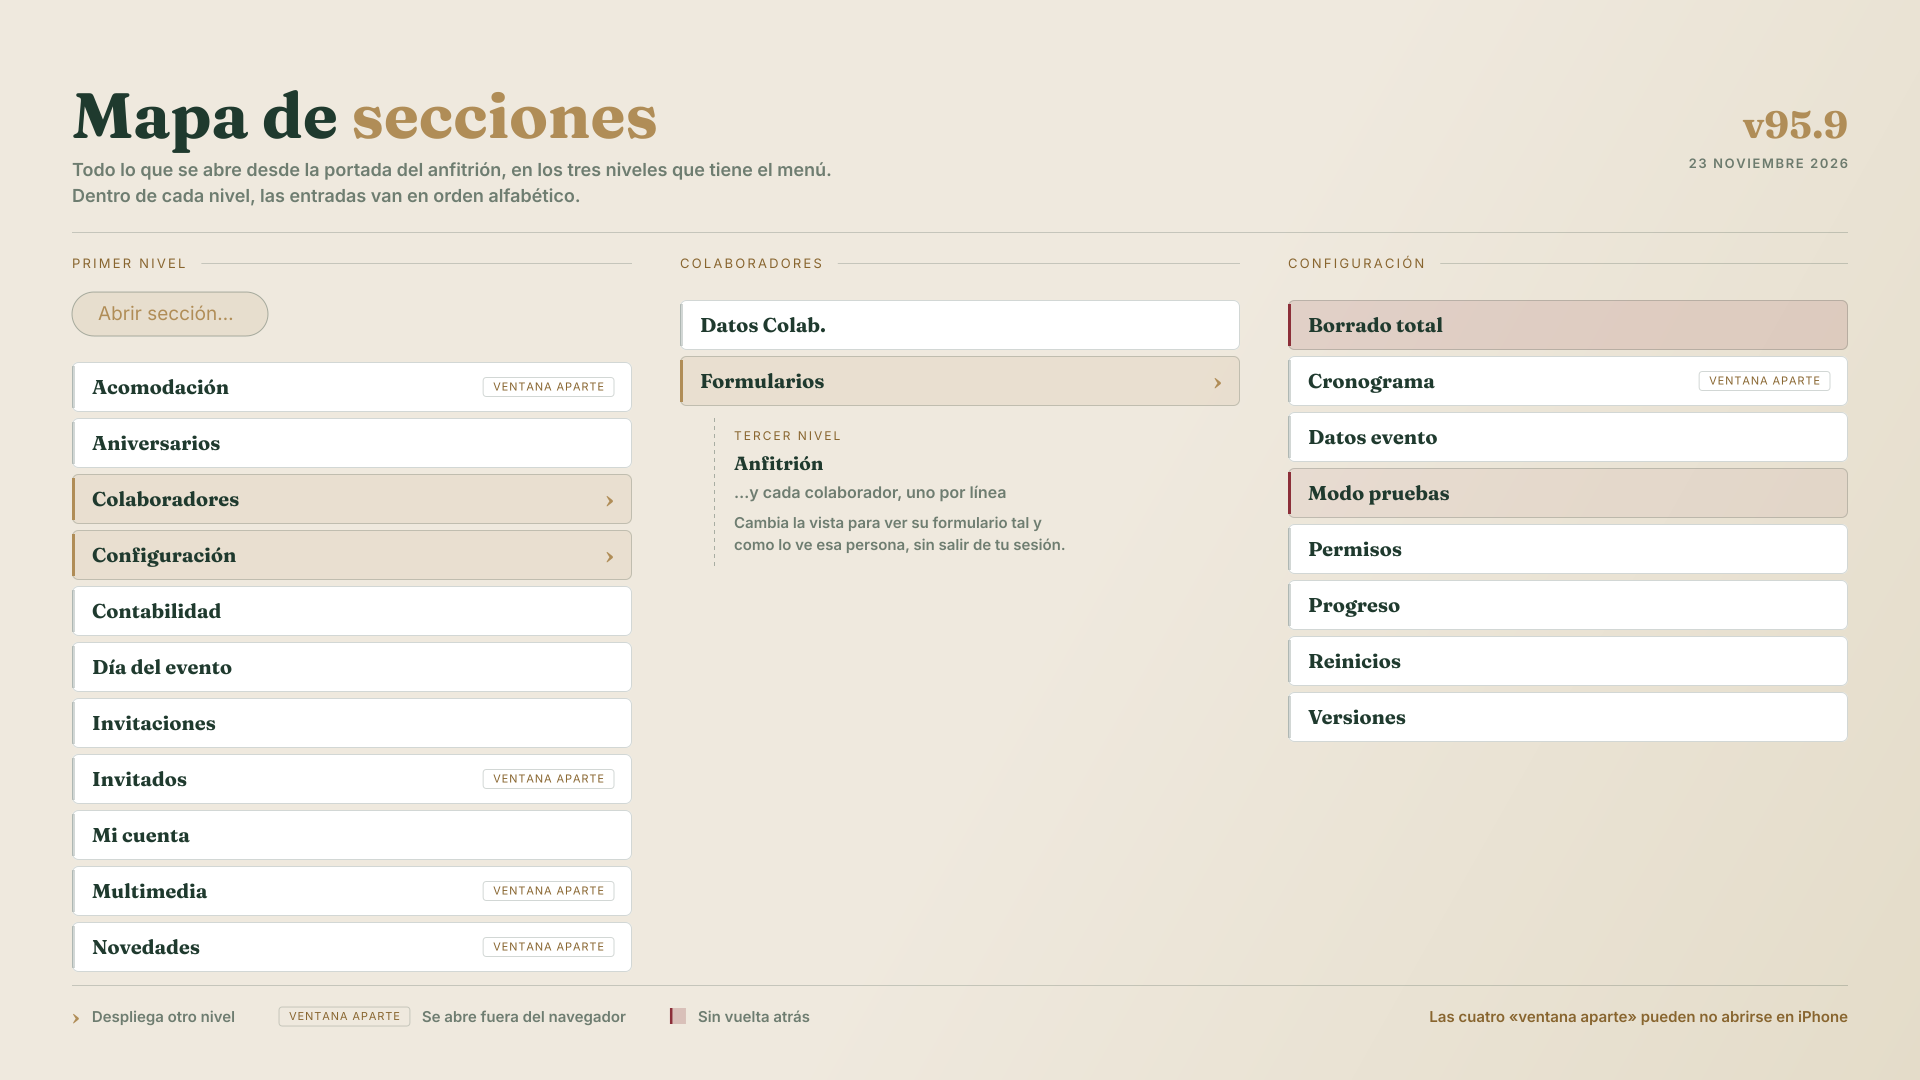
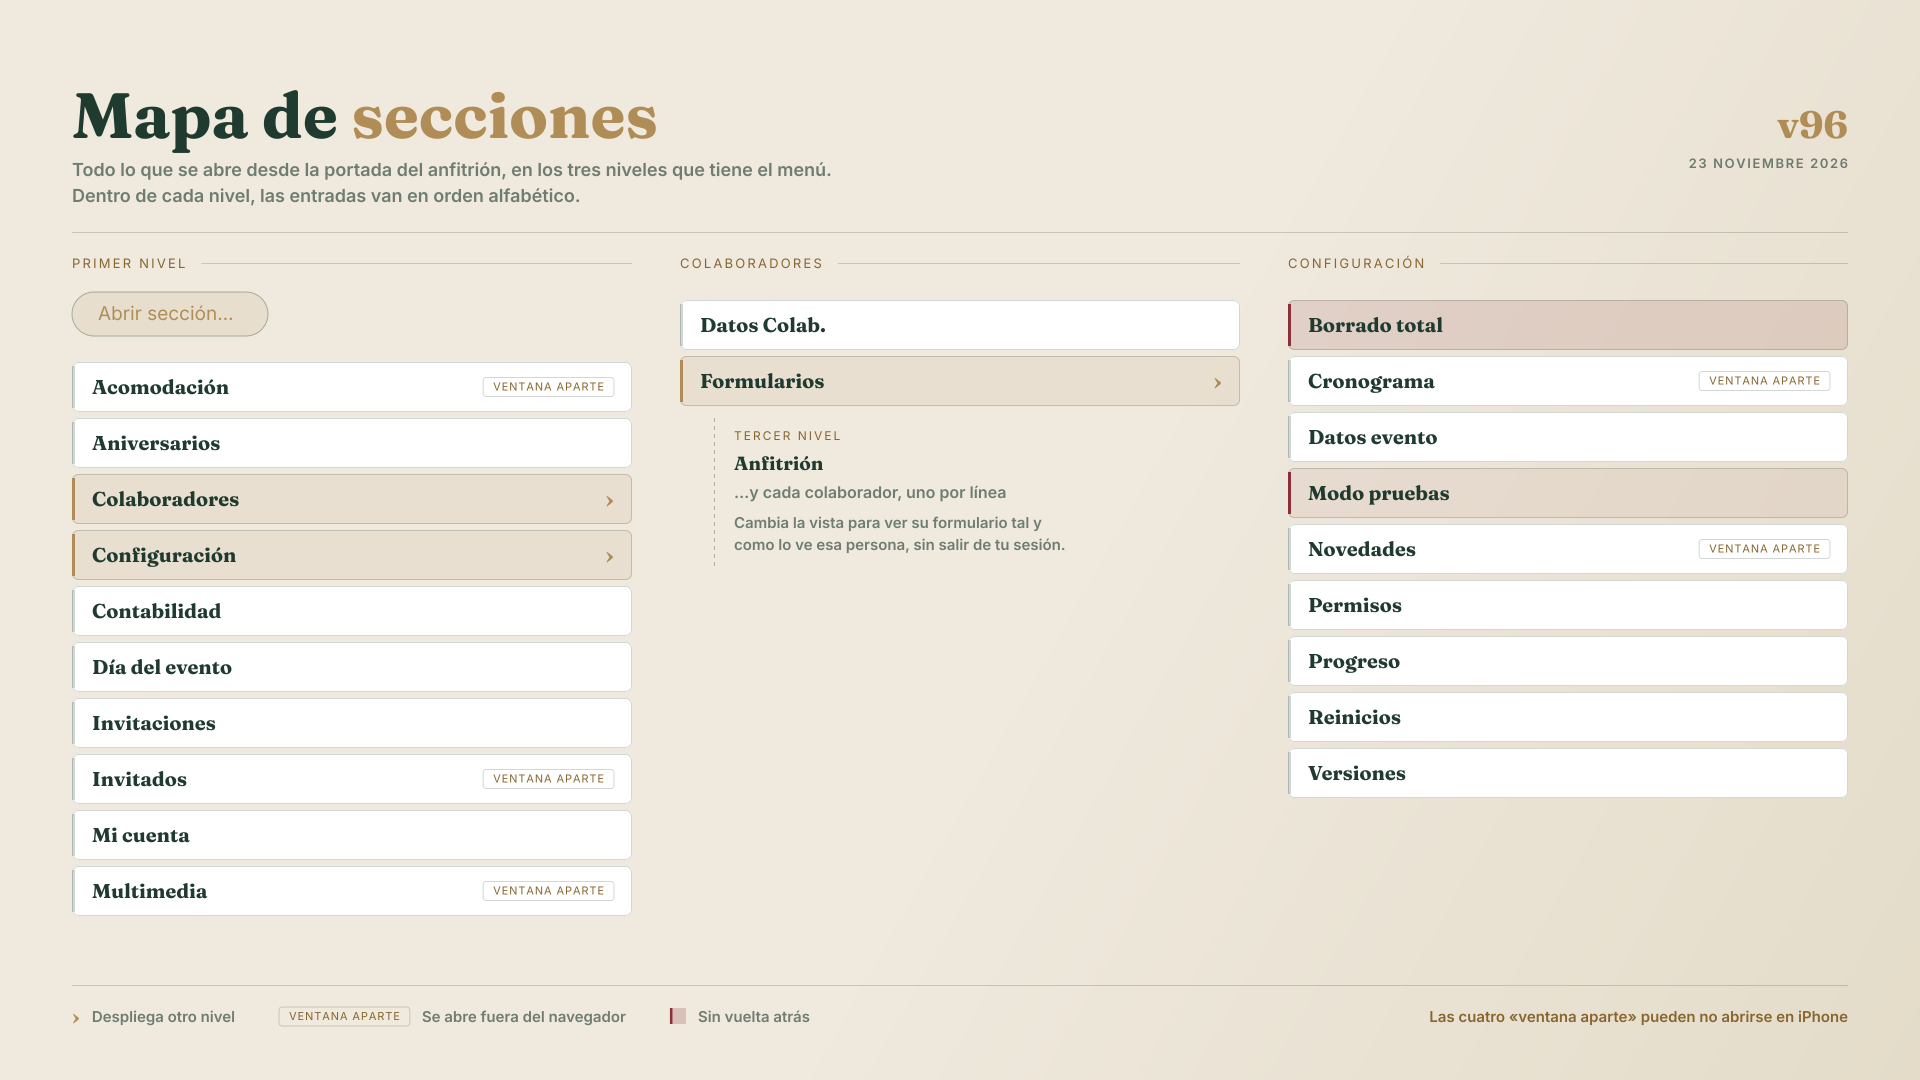
v96: «Novedades» pasa del menú principal a Configuración
Él: «es parte de algo que se puede editar o configurar». Se abre igual, en
su propia ventana del sistema; el mapa de la app, al día.

diff --git a/src/components/DesplegableSecciones.jsx b/src/components/DesplegableSecciones.jsx
@@ -38,6 +38,9 @@ export const SUBMENU_CONFIGURACION = [
   { id: "config-cronograma", etiqueta: "Cronograma" },
   { id: "config-datos-evento", etiqueta: "Datos evento" },
   { id: "config-modo-pruebas", etiqueta: "Modo pruebas", fondo: C.wax, color: C.paper },
+  // Del menú principal a Configuración (v96, él: «es parte de algo que se
+  // puede editar o configurar»).
+  { id: "novedades", etiqueta: "Novedades" },
   { id: "permisos", etiqueta: "Permisos" },
   { id: "progreso", etiqueta: "Progreso" },
   { id: "config-zona-reinicio", etiqueta: "Reinicios" },
@@ -76,20 +79,6 @@ export function DesplegableSecciones({
   posicion = { bottom: 8, right: 8 },
 }) {
   const opciones = ORDEN_VENTANAS.map((clave) => {
-    // Novedades y Logística abren cada una una ventana de verdad del
-    // sistema operativo, no una VentanaFlotante (ver lib/usePopupWindow.js)
-    // -- por eso no pasan por el "toggle(clave)" genérico de las demás, y
-    // no llevan el prefijo "✓ " (no hay ningún estado fiable de "abierta"
-    // que reflejar aquí: la persona puede haberla cerrado a mano con la X
-    // del sistema operativo sin que este menú se entere al momento).
-    if (clave === "novedades") {
-      return {
-        id: clave,
-        etiqueta: ETIQUETAS_VENTANAS[clave],
-        icono: ICONOS_VENTANAS[clave],
-        onClick: abrirNovedades,
-      };
-    }
     // La Lista de invitados abre en su propia ventana del sistema
     // (o dentro de la página en un aparato táctil): mismo caso que
     // Novedades, Logística y Música -- no pasa por el `toggle` genérico
@@ -179,9 +168,10 @@ export function DesplegableSecciones({
         // a petición del usuario, 2026-08-29. Por eso no pasa por
         // "toggle(s.id)" ni lleva el visto de abierta (mismo motivo: no hay
         // estado fiable de "sigue abierta" que reflejar aquí).
+        // «Novedades» (v96), igual: su propia ventana del sistema.
         submenu: SUBMENU_CONFIGURACION.map((s) =>
-          s.id === "config-cronograma"
-            ? { id: s.id, etiqueta: s.etiqueta, icono: s.icono, onClick: abrirCronograma }
+          s.id === "config-cronograma" || s.id === "novedades"
+            ? { id: s.id, etiqueta: s.etiqueta, icono: s.icono, onClick: s.id === "novedades" ? abrirNovedades : abrirCronograma }
             : {
                 id: s.id,
                 etiqueta: s.etiqueta,

diff --git a/src/constants.js b/src/constants.js
@@ -1,13 +1,13 @@
 // Constantes de app compartidas entre App.jsx y los componentes bajo
 // src/components/. Movida fuera de App.jsx en el reparto del 2026-08-08.
-export const VERSION_APP = "95.9";
+export const VERSION_APP = "96";
 
 // Lo que dice el aviso rojo de «Actualizar» a TODOS los que entran con su
 // cuenta, junto al número (él, v81.6): qué cambia, se corrige o se añade,
 // en 2 o 3 líneas del móvil (TOPE_AVISO, lib/avisoVersion.js), para
 // cualquiera: tú/ustedes, sin «yo». Va con cada número nuevo, y sin él no
 // se sube (.githooks/pre-push → scripts/version-subida.mjs).
-export const AVISO_VERSION = "Difuminados más suaves en toda la app; «Abrir sección…» difumina ya toda la pantalla, como los submenús.";
+export const AVISO_VERSION = "«Novedades» está ahora dentro de Configuración, en «Abrir sección…».";
 
 // Dirección del código de la app. La enseña "Mi cuenta" a quien tenga el
 // permiso "Ver el código de la app" (lib/permisos.js).

diff --git a/src/vistas/anfitrion/VentanaVersiones.jsx b/src/vistas/anfitrion/VentanaVersiones.jsx
@@ -42,6 +42,12 @@ const RESUMEN_VERSIONES_ANTERIORES = [
 // leer de un vistazo.
 const HISTORIAL_VERSIONES = [
   {
+    version: "96",
+    cambios: [
+      "«Novedades» pasa del menú principal de «Abrir sección…» a Configuración, entre «Modo pruebas» y «Permisos»: es algo que se edita y se configura. Se abre igual, en su propia ventana.",
+    ],
+  },
+  {
     version: "95.9",
     cambios: [
       "Todos los difuminados de la app, un poco más suaves: menos blancos.",

diff --git a/src/components/VentanaFlotante.jsx b/src/components/VentanaFlotante.jsx
@@ -221,7 +221,8 @@ export const ORDEN_VENTANAS = [
   "invitados",
   "mesas",
   "musicaEvento",
-  "novedades",
+  // «Novedades» ya no va aquí: está dentro de Configuración (v96, él: «es
+  // parte de algo que se puede editar o configurar»).
 ];
 
 // Etiquetas cortas (una palabra donde sea posible) -- son solo las del
